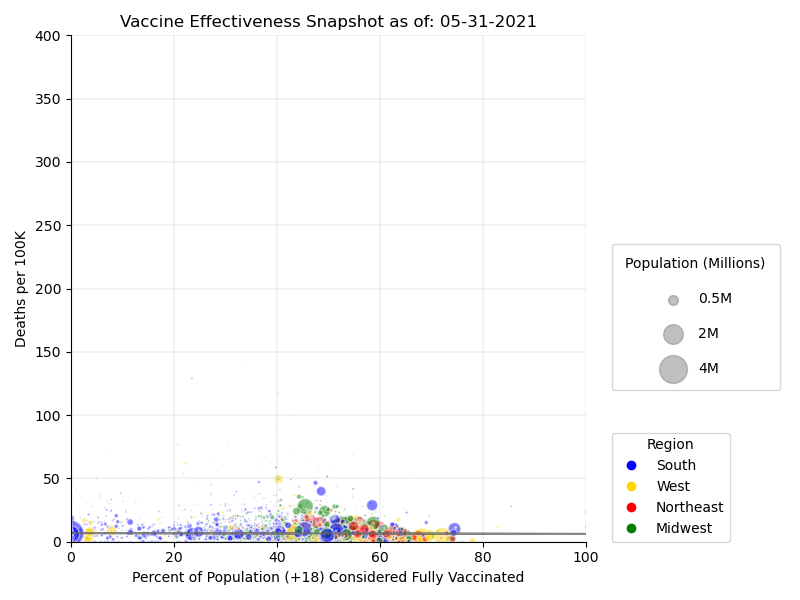
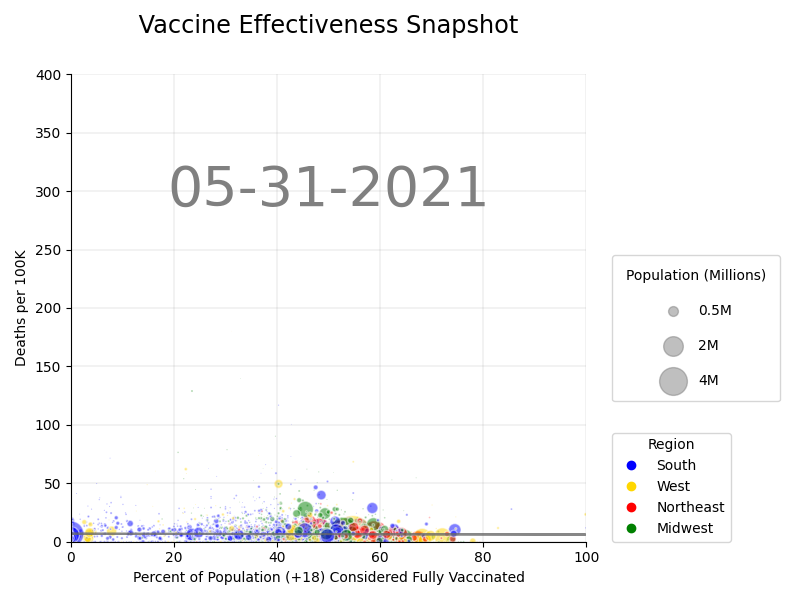
added date at the center of animation

diff --git a/src/scatters.py b/src/scatters.py
@@ -22,7 +22,11 @@ def scatter(month):
     ax.set_ylabel("Deaths per 100K")
     ax.set_xlim(0,100)
     ax.set_ylim(0,400) #[KR] changed from 500 limit to 400 limit
-    ax.set_title("Vaccine Effectiveness Snapshot as of: "+ month)
+
+
+    ax.set_title(" Vaccine Effectiveness Snapshot ", y=1.07, fontsize= 'xx-large') #[KR] added title )
+    ax.text(0.5, 0.75, month , horizontalalignment='center', verticalalignment='center', transform=ax.transAxes 
+    ,fontsize= 40, color='gray')    #added by Nathan & Pegah
     fig.set_size_inches(8,6)
     ax.spines['top'].set_visible(False) #[MR] Removes top spine
     ax.spines['right'].set_visible(False) #[MR] Removes right spine
